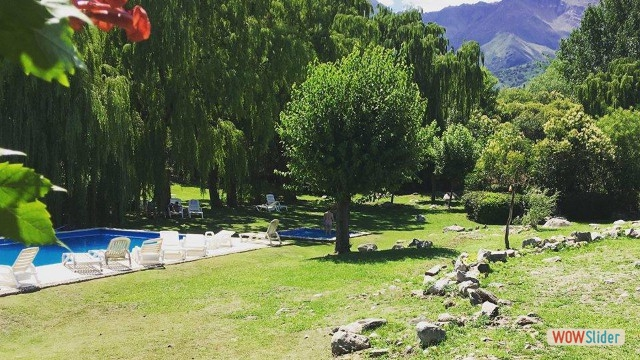
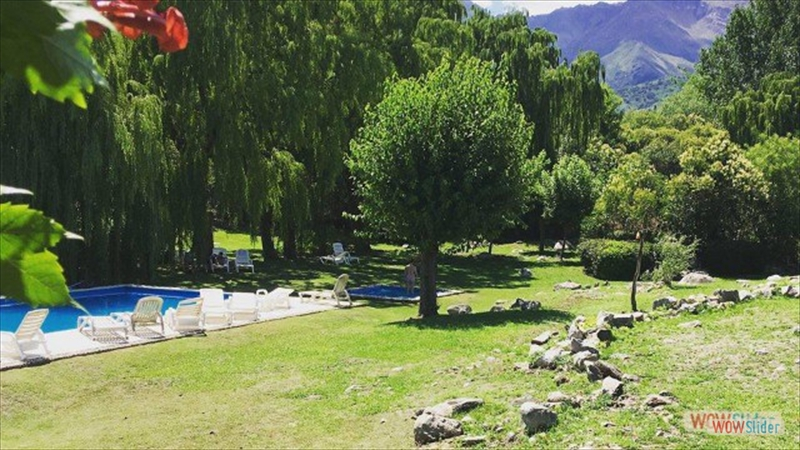
full page

diff --git a/index-howto.html b/index-howto.html
@@ -111,7 +111,7 @@
 		<li><img src="data1/images/3.jpg" alt="3" title="3" id="wows1_2"/></li>
 		<li><img src="data1/images/4.jpg" alt="4" title="4" id="wows1_3"/></li>
 		<li><img src="data1/images/5.jpg" alt="5" title="5" id="wows1_4"/></li>
-		<li><a href="http://wowslider.net"><img src="data1/images/6.jpg" alt="bootstrap image slider" title="6" id="wows1_5"/></a></li>
+		<li><a href="http://wowslider.net"><img src="data1/images/6.jpg" alt="javascript photo gallery" title="6" id="wows1_5"/></a></li>
 		<li><img src="data1/images/7.jpg" alt="7" title="7" id="wows1_6"/></li>
 	</ul></div>
 	<div class="ws_bullets"><div>
@@ -131,7 +131,7 @@
 
 
 <div class="instuction">
-	<p class="note">HTML code for the slider <a href="file:///C:/Users/amansor/Documents/Projects/wowSliderTS/public/index.html">C:/Users/amansor/Documents/Projects/wowSliderTS/public/index.html</a></p>
+	<p class="note">HTML code for the slider <a href="file:///C:/Users/amansor/Documents/Projects/wowSliderTS/wowSliderTs/index.html">C:/Users/amansor/Documents/Projects/wowSliderTS/wowSliderTs/index.html</a></p>
 
 	<h1>
 		How to add this slider to HTML page
@@ -141,7 +141,7 @@
 	<ul>
 		<li class="mono">data1/</li>
 		<li class="mono">engine1/</li>
-		<li class="note">Current location: <a href="file:///C:/Users/amansor/Documents/Projects/wowSliderTS/public">C:/Users/amansor/Documents/Projects/wowSliderTS/public</a>. <br>These folders should be located in the same folder as your html page</li>
+		<li class="note">Current location: <a href="file:///C:/Users/amansor/Documents/Projects/wowSliderTS/wowSliderTs">C:/Users/amansor/Documents/Projects/wowSliderTS/wowSliderTs</a>. <br>These folders should be located in the same folder as your html page</li>
 	</ul>
 
 	<h2><span class="num">2</span> Paste this code to your page between the tags <span class="mono">&lt;head&gt;&lt;/head&gt;</span></h2>
@@ -160,7 +160,7 @@
 		&lt;li&gt;&lt;img src=&quot;data1/images/3.jpg&quot; alt=&quot;3&quot; title=&quot;3&quot; id=&quot;wows1_2&quot;/&gt;&lt;/li&gt;
 		&lt;li&gt;&lt;img src=&quot;data1/images/4.jpg&quot; alt=&quot;4&quot; title=&quot;4&quot; id=&quot;wows1_3&quot;/&gt;&lt;/li&gt;
 		&lt;li&gt;&lt;img src=&quot;data1/images/5.jpg&quot; alt=&quot;5&quot; title=&quot;5&quot; id=&quot;wows1_4&quot;/&gt;&lt;/li&gt;
-		&lt;li&gt;&lt;a href=&quot;http://wowslider.net&quot;&gt;&lt;img src=&quot;data1/images/6.jpg&quot; alt=&quot;bootstrap image slider&quot; title=&quot;6&quot; id=&quot;wows1_5&quot;/&gt;&lt;/a&gt;&lt;/li&gt;
+		&lt;li&gt;&lt;a href=&quot;http://wowslider.net&quot;&gt;&lt;img src=&quot;data1/images/6.jpg&quot; alt=&quot;javascript photo gallery&quot; title=&quot;6&quot; id=&quot;wows1_5&quot;/&gt;&lt;/a&gt;&lt;/li&gt;
 		&lt;li&gt;&lt;img src=&quot;data1/images/7.jpg&quot; alt=&quot;7&quot; title=&quot;7&quot; id=&quot;wows1_6&quot;/&gt;&lt;/li&gt;
 	&lt;/ul&gt;&lt;/div&gt;
 	&lt;div class=&quot;ws_bullets&quot;&gt;&lt;div&gt;

diff --git a/engine1/style.css b/engine1/style.css
@@ -4,13 +4,13 @@
  */
 @import url(https://fonts.googleapis.com/css?family=PT+Sans&subset=latin,latin-ext);
 #wowslider-container1 { 
-	display: table;
+	display: block;
 	zoom: 1; 
 	position: relative;
 	width: 100%;
-	max-width: 640px;
-	max-height:360px;
-	margin:5px auto 12.5px;
+	max-width: 100%;
+	max-height:none;
+	margin:0px auto 0px;
 	z-index:90;
 	text-align:left; /* reset align=center */
 	font-size: 10px;
@@ -51,8 +51,8 @@
 	left:0;
 	top:0;
 	height:100%;
-	max-height:360px;
-	max-width: 640px;
+	max-height:none;
+	max-width: 100%;
 	vertical-align: top;
 	border:none;
 	overflow: hidden;
@@ -60,7 +60,7 @@
 #wowslider-container1 .ws_images ul a{
 	width:100%;
 	height:100%;
-	max-height:360px;
+	max-height:none;
 	display:block;
 	color:transparent;
 }
@@ -76,7 +76,7 @@
 	margin:0;
 }
 #wowslider-container1 .ws_images > div > img {
-	max-height:360px;
+	max-height:none;
 }
 
 #wowslider-container1 .ws_images iframe {
@@ -415,15 +415,6 @@
 @-moz-keyframes wsBasic{0%{left:-0%} 10.78%{left:-0%} 14.29%{left:-100%} 25.07%{left:-100%} 28.57%{left:-200%} 39.35%{left:-200%} 42.86%{left:-300%} 53.64%{left:-300%} 57.14%{left:-400%} 67.92%{left:-400%} 71.43%{left:-500%} 82.21%{left:-500%} 85.71%{left:-600%} 96.5%{left:-600%} }
 @-webkit-keyframes wsBasic{0%{left:-0%} 10.78%{left:-0%} 14.29%{left:-100%} 25.07%{left:-100%} 28.57%{left:-200%} 39.35%{left:-200%} 42.86%{left:-300%} 53.64%{left:-300%} 57.14%{left:-400%} 67.92%{left:-400%} 71.43%{left:-500%} 82.21%{left:-500%} 85.71%{left:-600%} 96.5%{left:-600%} }
 
-
-* html #wowslider-container1 .ws_shadow{/*ie6*/
-	background:none;
-	filter:progid:DXImageTransform.Microsoft.AlphaImageLoader( src='engine1//bg.png', sizingMethod='scale');
-}
-*+html #wowslider-container1 .ws_shadow{/*ie7*/
-	background:none;
-	filter:progid:DXImageTransform.Microsoft.AlphaImageLoader( src='engine1//bg.png', sizingMethod='scale');
-}
 #wowslider-container1 .ws_bullets  a img{
 	text-indent:0;
 	display:block;

diff --git a/engine1/script.js b/engine1/script.js
@@ -18,4 +18,4 @@ function ws_blur(r,p,c){var h=jQuery;var o=h(this);var n=h("<div>").addClass("ws
 // Obfuscated by Javascript Obfuscator
 // http://javascript-source.com
 //***********************************************
-jQuery("#wowslider-container1").wowSlider({effect:"blur",prev:"",next:"",duration:13*100,delay:40*100,width:640,height:360,autoPlay:true,autoPlayVideo:false,playPause:false,stopOnHover:false,loop:false,bullets:1,caption:false,captionEffect:"parallax",controls:true,controlsThumb:false,responsive:1,fullScreen:false,gestures:2,onBeforeStep:0,images:0});
+jQuery("#wowslider-container1").wowSlider({effect:"blur",prev:"",next:"",duration:13*100,delay:40*100,width:640,height:360,autoPlay:true,autoPlayVideo:false,playPause:false,stopOnHover:false,loop:false,bullets:1,caption:false,captionEffect:"parallax",controls:true,controlsThumb:false,responsive:3,fullScreen:false,gestures:2,onBeforeStep:0,images:0});

diff --git a/index.html b/index.html
@@ -11,7 +11,7 @@
 	<!-- End WOWSlider.com HEAD section -->
 
 </head>
-<body style="background-color:#f0f0f0;margin:auto">
+<body style="background-color:#f0f0f0;margin:0">
 	
 	<!-- Start WOWSlider.com BODY section --> <!-- add to the <body> of your page -->
 	<div id="wowslider-container1">
@@ -21,7 +21,7 @@
 		<li><img src="data1/images/3.jpg" alt="3" title="3" id="wows1_2"/></li>
 		<li><img src="data1/images/4.jpg" alt="4" title="4" id="wows1_3"/></li>
 		<li><img src="data1/images/5.jpg" alt="5" title="5" id="wows1_4"/></li>
-		<li><a href="http://wowslider.net"><img src="data1/images/6.jpg" alt="bootstrap image slider" title="6" id="wows1_5"/></a></li>
+		<li><a href="http://wowslider.net"><img src="data1/images/6.jpg" alt="javascript photo gallery" title="6" id="wows1_5"/></a></li>
 		<li><img src="data1/images/7.jpg" alt="7" title="7" id="wows1_6"/></li>
 	</ul></div>
 	<div class="ws_bullets"><div>

diff --git a/index-iframe.html b/index-iframe.html
@@ -1,3 +1,3 @@
 <!-- Start WOWSlider.com -->
-<iframe src="index.html" style="width:650px;height:377.5px;max-width:100%;overflow:hidden;border:none;padding:0;margin:0 auto;display:block;" marginheight="0" marginwidth="0"></iframe>
+<iframe src="index.html" style="width:640px;height:360px;max-width:100%;overflow:hidden;border:none;padding:0;margin:0 auto;display:block;" marginheight="0" marginwidth="0"></iframe>
 <!-- End WOWSlider.com -->
